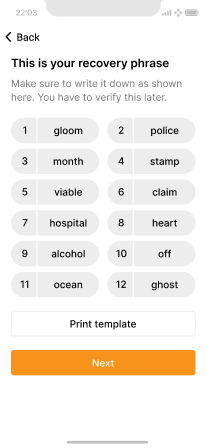
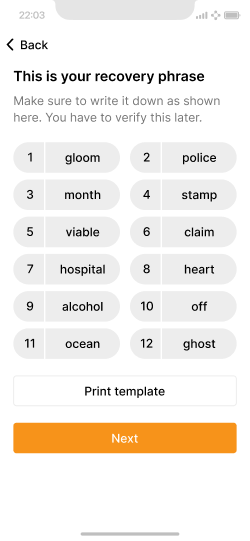
Updated images.

diff --git a/guide/onboarding/backing-up-a-recovery-phrase.md b/guide/onboarding/backing-up-a-recovery-phrase.md
@@ -43,7 +43,7 @@ When a user generates a new wallet, it creates something called a recovery phras
    image = "/assets/images/guide/onboarding/backing-up-a-recovery-phrase/copy-recovery-phrase.png"
    retina = "/assets/images/guide/onboarding/backing-up-a-recovery-phrase/copy-recovery-phrase@2x.png"
    width = 250
-   height = 448
+   height = 541
    alt-text = "Recovery phrase mobile interface"
    caption = "Typical recovery phrase UI from the [UI Kit](https://www.figma.com/file/VB3GQdAnhl8yta44DY3PSV/Bitcoin-Wallet-UI-Kit?node-id=649%3A760)"
    layout = "float-left-desktop -background -shadow"
